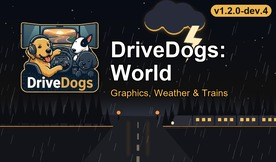
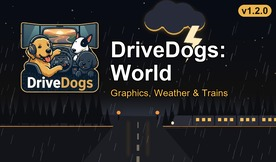
record why world owns the flashing-green timing and base-game data fixes and release world 1.2.0

Changed region(s): [[0.7536, 0.0, 0.9855, 0.1235]]

diff --git a/docs/adr/ADR-0004-world-base-data-fixes.md b/docs/adr/ADR-0004-world-base-data-fixes.md
@@ -1,0 +1,49 @@
+# ADR-0004: World owns the semaphore timing for flashing green and fixes base-game data that floods game.log
+
+- Status: accepted
+- Date: 2026-10-03
+
+## Context
+
+- The DriveDogs Better Flares Traffic Lights add-on (`BetterFlaresAddOns/TrafficLights`) lights the green lens during
+  the engine's `green_trans` state. A semaphore model only has that state when its `state_transition[]` gives green a
+  transition time. The engine finds a semaphore model by unit id (`tr_sem_mdl.<model>[.<country>]`), so that value can
+  only be set in whole copies of `def/world/semaphore_model*.sii`. World already ships those files (Cip's crossing
+  sounds), and loads below Better Flares and the add-on, so a copy in the add-on would drop World's crossing sounds.
+- DBM Road Signs & Markings 2.1 shipped 4x textures for every sign symbol and frame. Sign atlas
+  (`def/sign/atlas/*.sii`) and frame (`def/sign/frame/*.sii`) definitions give texture coordinates in pixels, and 2.1
+  shipped none, so since World 1.0.0 every sign drew the top-left quarter of each image. DBM 2.3 adds the definitions.
+  `megapack check` cannot see this: every path is valid, only the numbers disagree.
+- Base 1.61.1.1 has data bugs that write to game.log on every drive: five signs that are both instanced and LOD'd
+  (two Iberian street lamps, three polar-circle signs; 170 warnings per drive through Spain), and the Class 334
+  locomotive's glass material still pointing at Class 252's pre-1.61 path (`/vehicle/ai/train/class252/`).
+- grass_4.0's grass density (26; base 35) put 77,647 blades of one model on a terrain item, over the engine's
+  65,535 per instance cluster, so that item drew no grass.
+
+## Decision
+
+1. **World carries the flashing-green timing** as `base_edits` (`world/traffic_lights.yaml`): `state_transition[]:
+   [0, 0, 0, 3.0]` on the 108 standard traffic-light models (base, polar circle, Benelux reskin, Iberia, West
+   Balkans). The file is generated by the TrafficLights repo (`tools/generate_traffic_lights.py --world-edits`), which
+   owns the flash length and the target list for both halves. Without the add-on those lights go dark for the last
+   3 s of green; the description says so in red.
+2. **DBM's sign definitions ship with its textures** (source updated to 2.3). A definition follows the texture that
+   wins: the 5 gas-station atlases whose texture real-companies wins keep the base game's definitions (excluded in
+   `sources.yaml`). `tools/check_sign_defs.py` (read-only, after `megapack lock`) checks every shipped definition's
+   pixel coordinates against the winning texture's size.
+3. **Base-game data fixes are generated, never hand-copied:** `tools/sign_lods.py` (`world/signs.yaml`) unsets the
+   unused LODs of every base sign that is also instanced; `tools/base_material_fixes.py` writes corrected copies of
+   listed base materials to `overrides/` (only materials seen in a test log; the base has 153 broken texture
+   references, nearly all on unplaced models). Both fail after a game update when the base changes under them.
+4. **World's own grass density is 30** (`OURS` in `tools/harvest_graphics.py`, over grass_4.0's 26): about 1.35x the
+   base game's grass with headroom under the cluster limit.
+
+## Consequences
+
+- World 1.2.0 needs the TrafficLights add-on for the standard lights to look right; the two release together.
+- A DBM update needs `check_sign_defs.py` (it is in the README's build steps and source-update row).
+- game.log in a normal drive is free of World's own lines; what remains belongs to other mods (handed over to AI
+  Traffic and Trailers & Cargo as their plans `log-errors-161`), the telemetry plugins or base-game data World does
+  not own.
+- `overrides/automat/` is shared by `rain_reflections.py` and `base_material_fixes.py`; each refuses a path the
+  other's manifest lists.

diff --git a/README.md b/README.md
@@ -25,7 +25,8 @@ Current content (v1.2.0, ETS2 1.61):
 Every game setting these mods change is carried as an edit of the current game files, never as an old whole copy,
 so what a game update adds keeps working. Decisions: [ADR-0001](docs/adr/ADR-0001-world-megapack.md) (megapack,
 trains), [ADR-0002](docs/adr/ADR-0002-world-graphics.md) (graphics, weather, brands),
-[ADR-0003](docs/adr/ADR-0003-world-bus-stop-people.md) (bus-stop people).
+[ADR-0003](docs/adr/ADR-0003-world-bus-stop-people.md) (bus-stop people),
+[ADR-0004](docs/adr/ADR-0004-world-base-data-fixes.md) (flashing-green timing, sign definitions, base-game data fixes).
 
 ## Install
 
